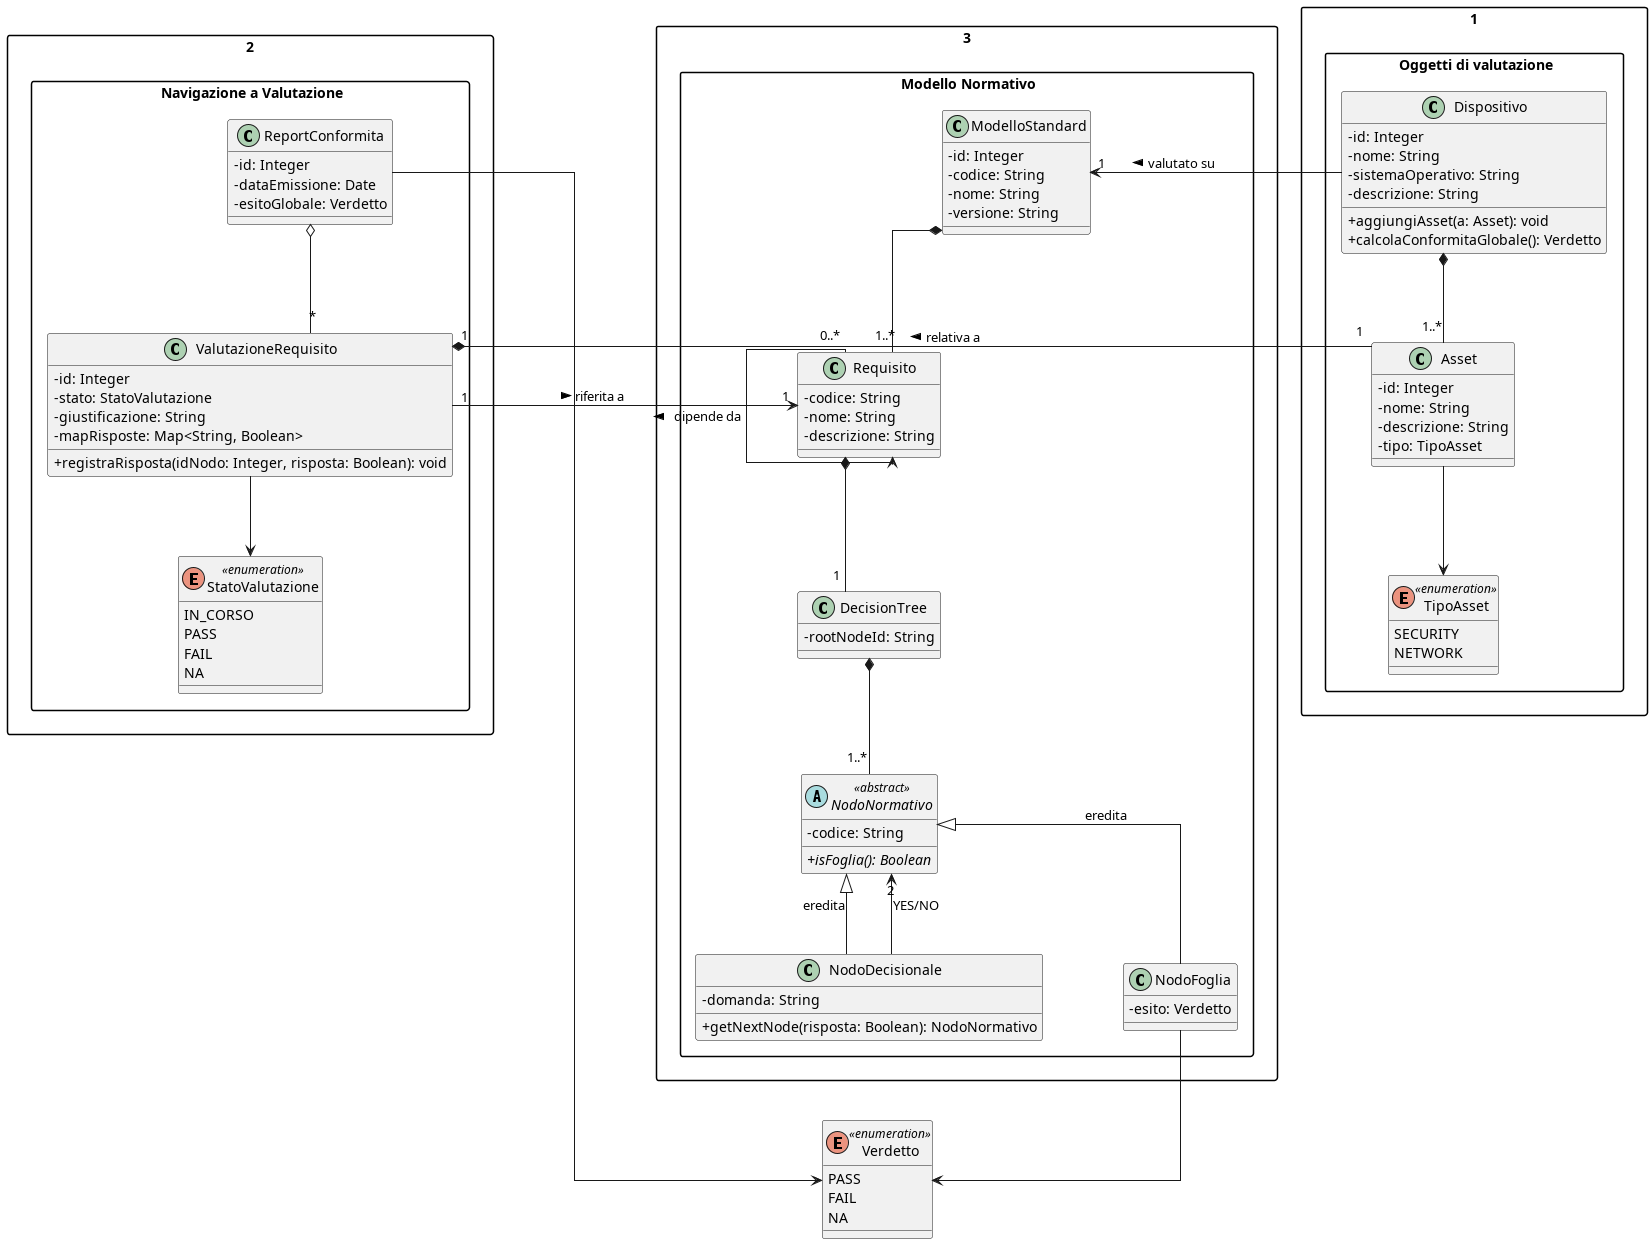
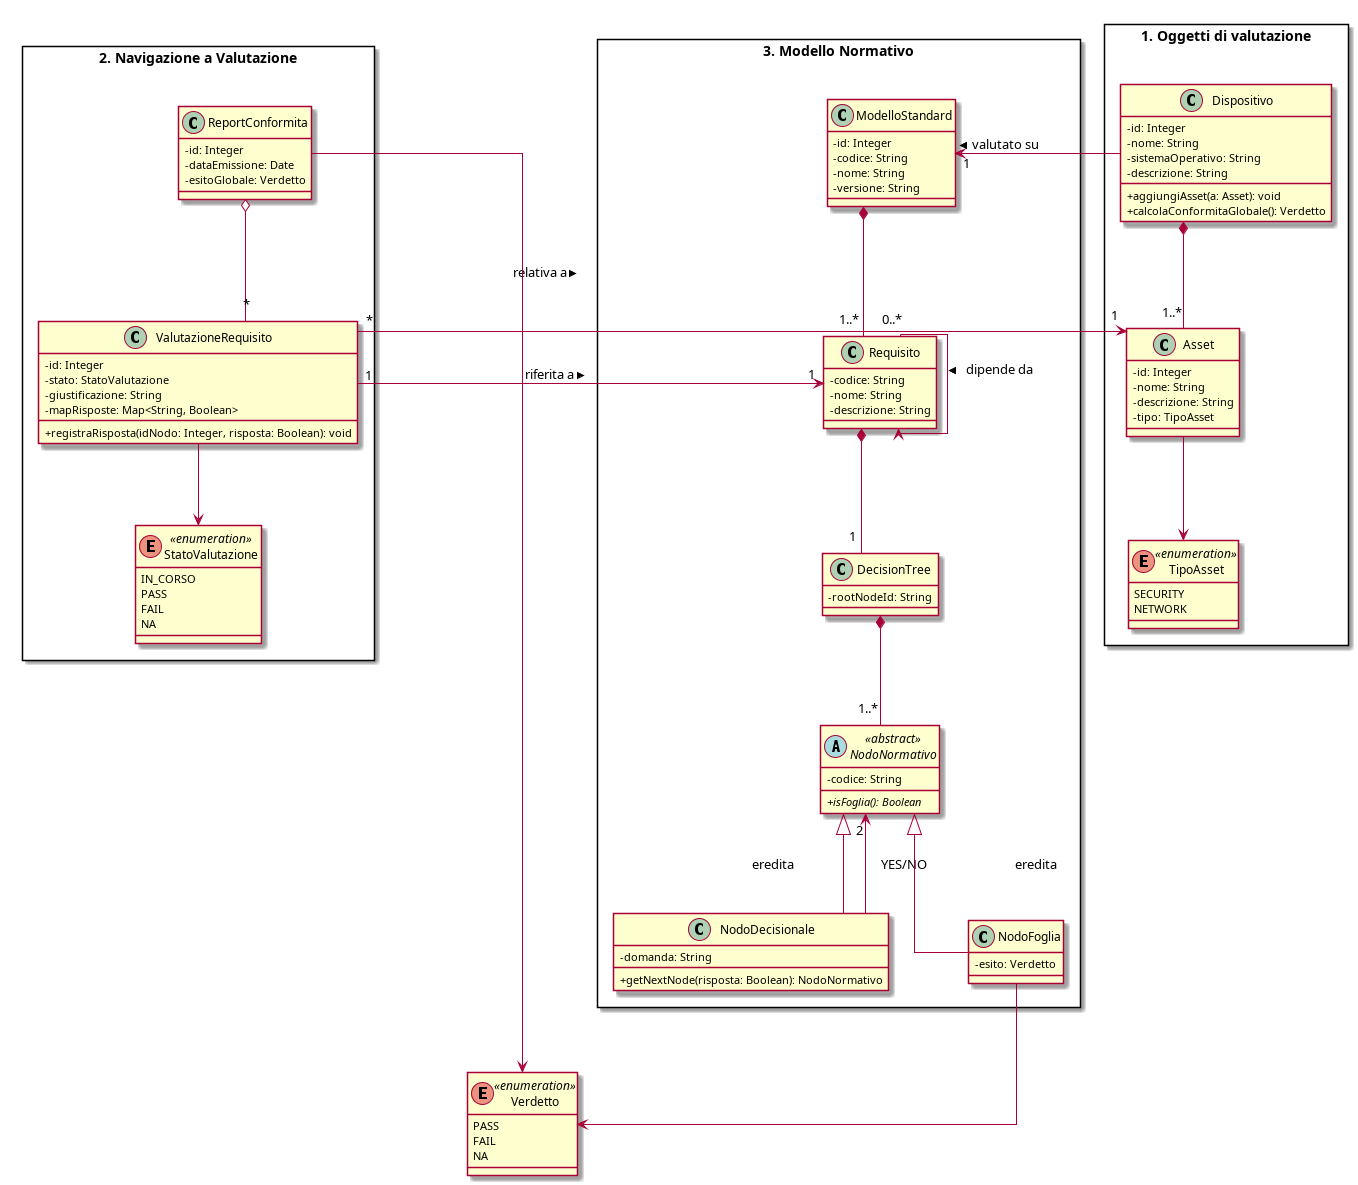
generate immagini diagrammi classi import export

diff --git a/src/PB/DocumentazioneEsterna/Specifica_Tecnica/content/uml/README.md b/src/PB/DocumentazioneEsterna/Specifica_Tecnica/content/uml/README.md
@@ -19,3 +19,27 @@
    e selezionare .png
 
 ora si ha il png da inserire nel doc nella cartella uml/png
+
+
+
+# Alternativa con script
+
+se si ha plantuml installato da terminale
+e lo script ha il permesso di esecuzione
+
+chmod +x compile_puml.sh
+
+basta lanciare da terminale lo script :
+src/PB/DocumentazioneEsterna/Specifica_Tecnica/content/uml/compile_puml.sh
+
+questo legge tutti i file nella cartella :
+src/PB/DocumentazioneEsterna/Specifica_Tecnica/content/uml/puml
+
+come png nella cartella:
+src/PB/DocumentazioneEsterna/Specifica_Tecnica/content/uml/png
+
+
+
+
+
+
